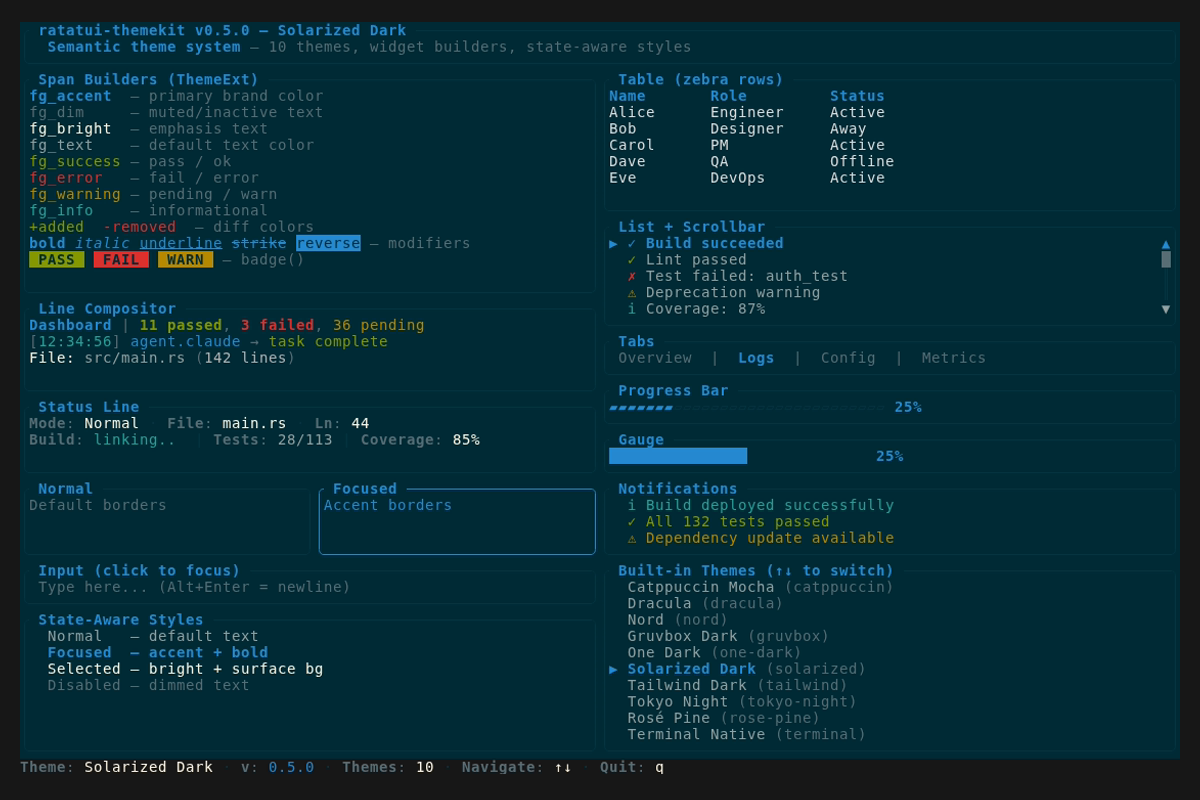
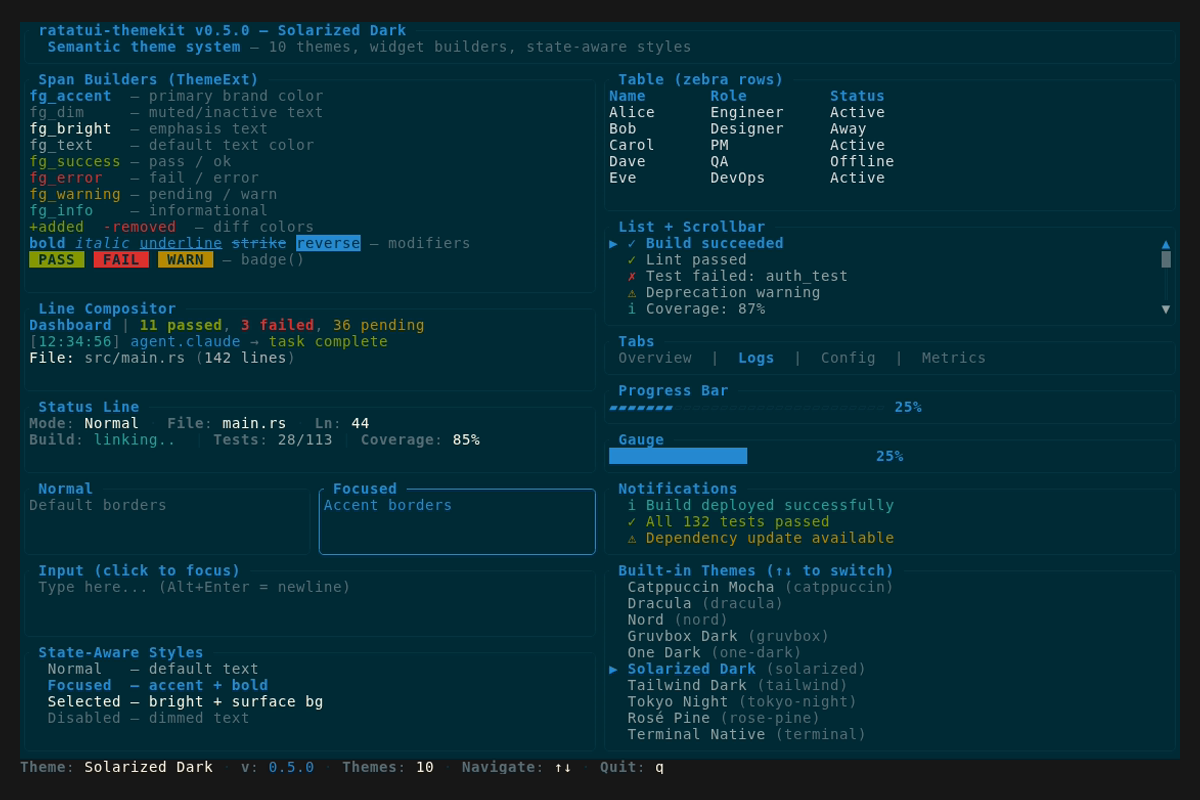
fix: multiline input render + border click hit-test

Changed region(s): [[0.0308, 0.75, 0.2775, 0.9062]]

diff --git a/examples/showcase.rs b/examples/showcase.rs
@@ -291,7 +291,7 @@ fn render_body(frame: &mut Frame<'_>, area: Rect, t: &dyn Theme, state: &mut Ani
             Constraint::Length(6),
             Constraint::Length(5),
             Constraint::Length(5),
-            Constraint::Length(3),
+            Constraint::Length(5),
             Constraint::Min(0),
         ])
         .split(columns[0]);
@@ -508,7 +508,7 @@ fn render_input_demo(frame: &mut Frame<'_>, area: Rect, t: &dyn Theme, state: &m
         .style(ratatui::style::Style::default().bg(t.surface()));
 
     let inner = block.inner(area);
-    state.input_area = inner;
+    state.input_area = area; // use outer rect for click hit-testing
     frame.render_widget(block, area);
 
     if state.input_buffer.is_empty() && !focused {
@@ -521,26 +521,35 @@ fn render_input_demo(frame: &mut Frame<'_>, area: Rect, t: &dyn Theme, state: &m
             inner,
         );
     } else {
-        // Render buffer with cursor
+        // Render buffer with cursor — supports multiline via Alt+Enter
         let before = &state.input_buffer[..state.input_cursor];
         let after = &state.input_buffer[state.input_cursor..];
 
         let cursor_char = if focused && state.tick % 20 < 12 {
-            "\u{2588}" // blinking block cursor
+            "\u{2588}"
         } else if focused {
             " "
         } else {
             ""
         };
 
-        let line = t
-            .line()
-            .accent_bold(" > ")
-            .text(before.to_owned())
-            .colored(cursor_char, t.accent())
-            .text(after.to_owned())
-            .build();
-        frame.render_widget(Paragraph::new(line), inner);
+        // Build full text then split by newlines
+        let full = format!(" > {before}{cursor_char}{after}");
+        let lines: Vec<Line<'_>> = full
+            .lines()
+            .enumerate()
+            .map(|(i, line_text)| {
+                if i == 0 {
+                    // First line has the prompt
+                    t.line().text(line_text.to_owned()).build()
+                } else {
+                    t.line().dim("   ").text(line_text.to_owned()).build()
+                }
+            })
+            .collect();
+
+        let text = Text::from(lines);
+        frame.render_widget(Paragraph::new(text), inner);
     }
 }
 
